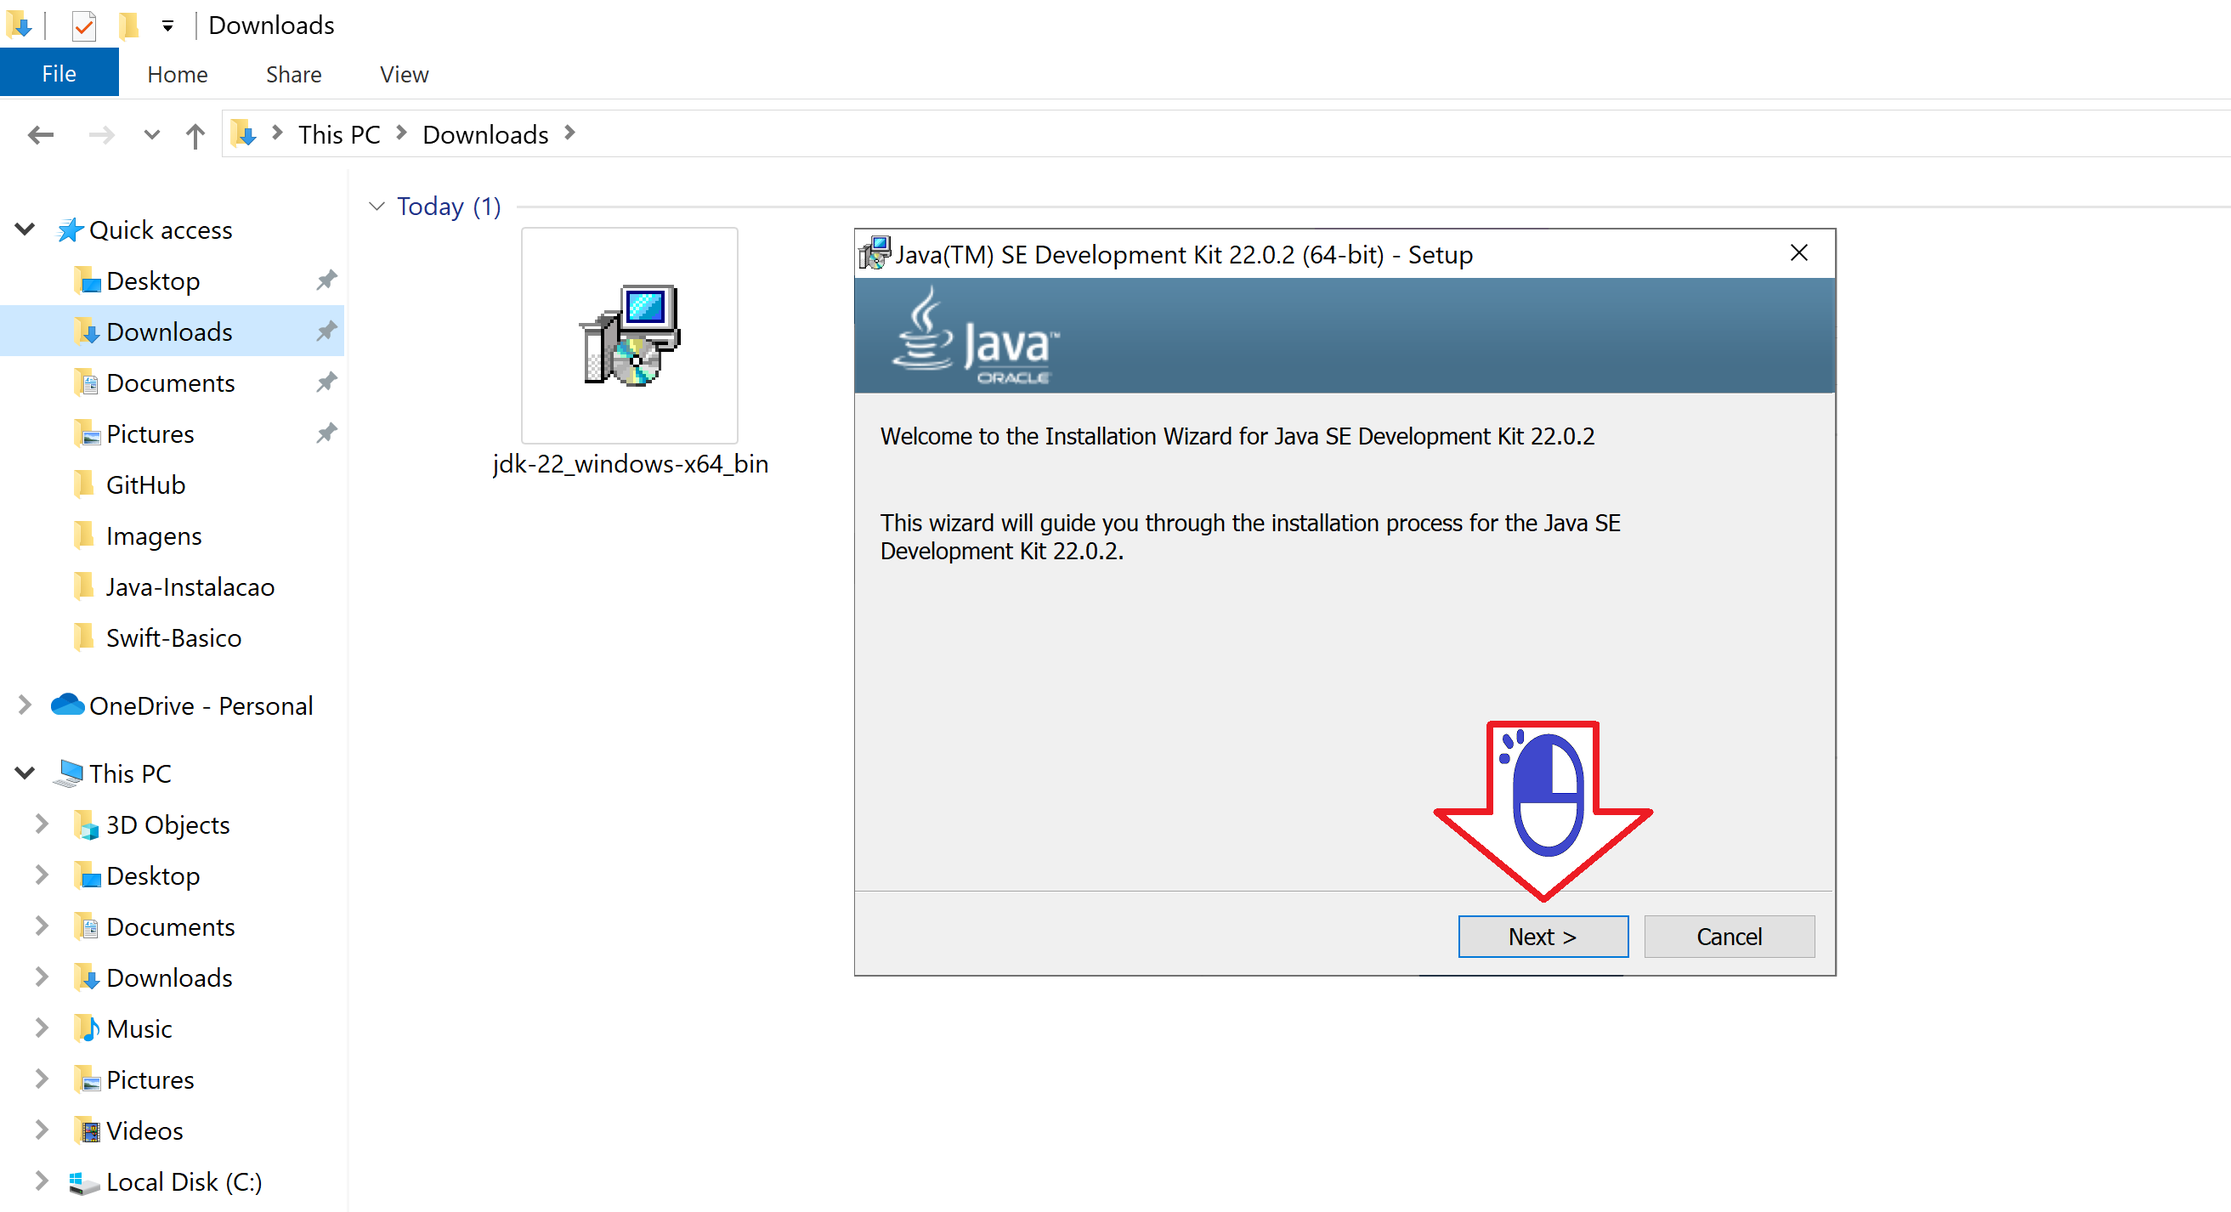
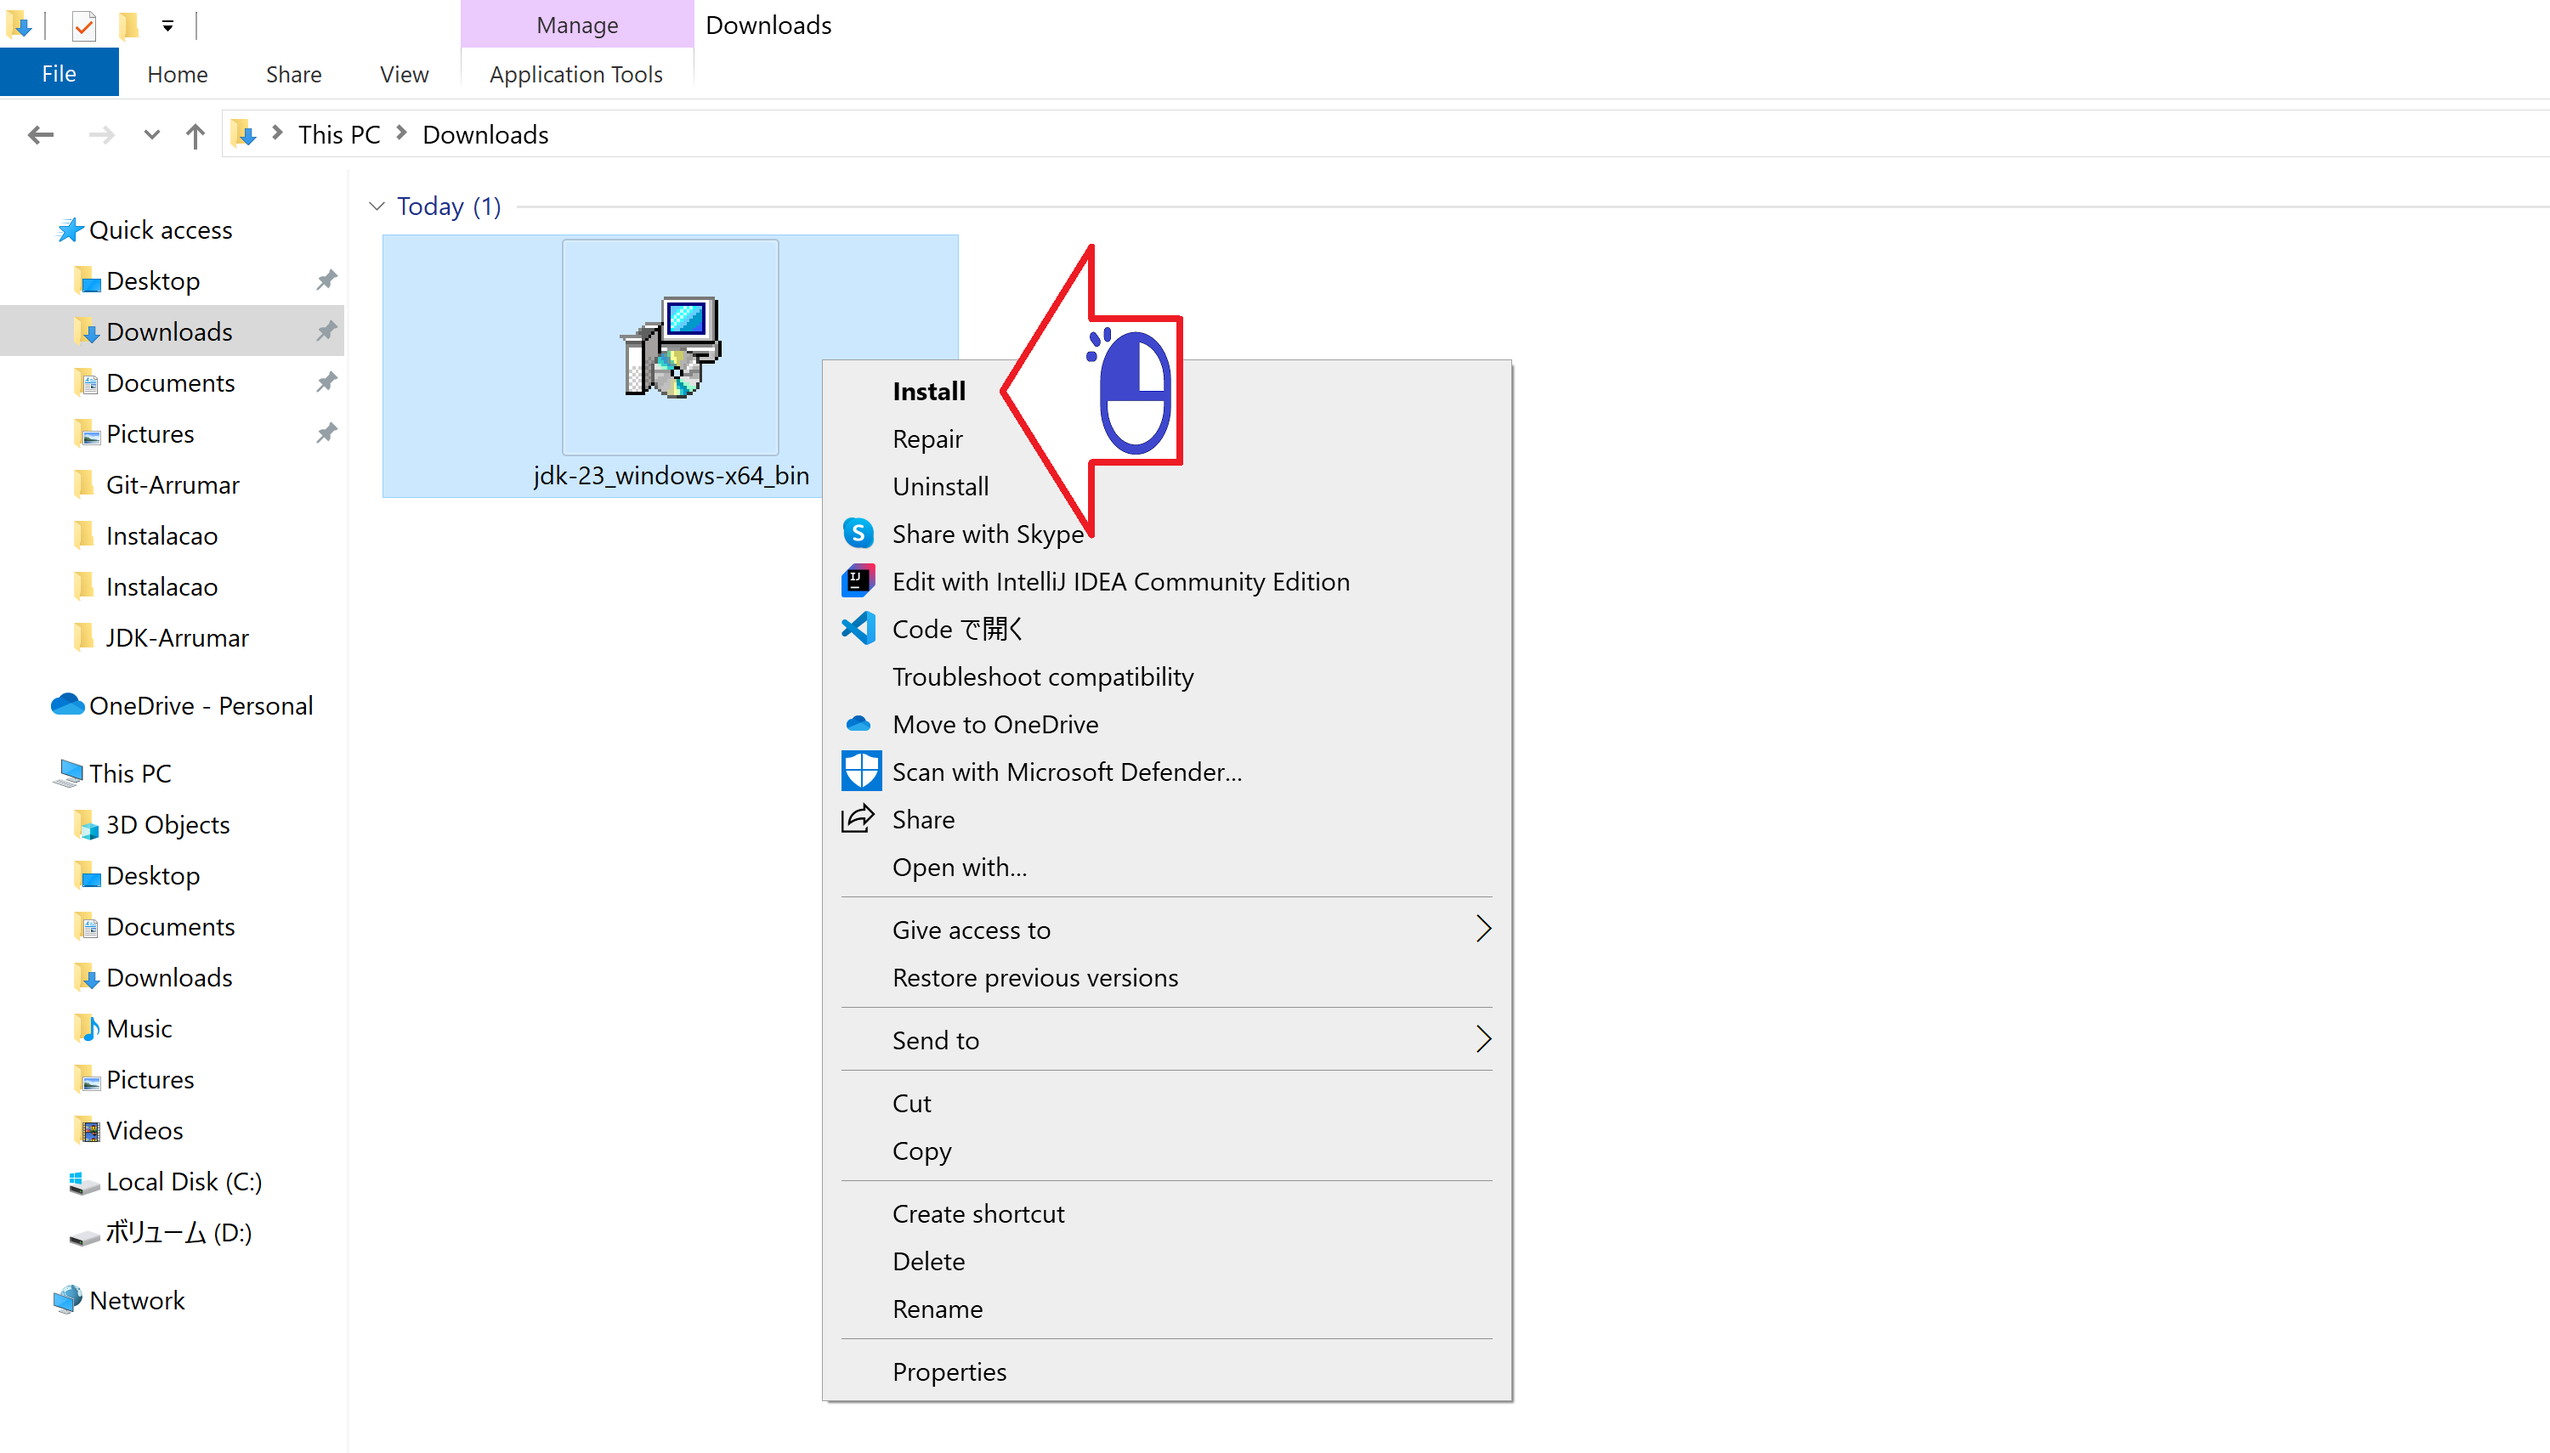
Java jdk botao de instalacao direito

diff --git a/README-Java-Instalacao-jp.md b/README-Java-Instalacao-jp.md
@@ -2,33 +2,38 @@
 
 JDKのインストールする
 
-
 <div align="center">
-絵 01 - ダウンロードフォルダーにダウンロードされたインストーラー
+絵 01 - 右クリックします
 </div>
 
 ![](Imagens/Java-Windows-Instalacao-Img01.png)
 
 <div align="center">
-絵 02 - 導入するシステムの情報
+絵 02 - 「Install」をクリックします
 </div>
 
 ![](Imagens/Java-Windows-Instalacao-Img02.png)
 
 <div align="center">
-絵 03 - 重要 - パッケージがインストールされる場所
+絵 03 - 導入するシステムの情報
 </div>
 
 ![](Imagens/Java-Windows-Instalacao-Img03.png)
 
 <div align="center">
-絵 04 - インストールの進行状況
+絵 04 - 重要 - パッケージがインストールされる場所
 </div>
 
 ![](Imagens/Java-Windows-Instalacao-Img04.png)
 
 <div align="center">
-Figura 05 - プロセスの完了
+絵 05 - インストールの進行状況
 </div>
 
 ![](Imagens/Java-Windows-Instalacao-Img05.png)
+
+<div align="center">
+Figura 06 - プロセスの完了
+</div>
+
+![](Imagens/Java-Windows-Instalacao-Img06.png)

diff --git a/README-Java-Instalacao-br-pt.md b/README-Java-Instalacao-br-pt.md
@@ -3,31 +3,37 @@
 Instalando o arquivo baixado no site da Oracle
 
 <div align="center">
-Figura 01 - Instalador baixado na pasta Downloads
+Figura 01 - Clique com o botão direito
 </div>
 
 ![](Imagens/Java-Windows-Instalacao-Img01.png)
 
 <div align="center">
-Figura 02 - Informação sobre o sistema que sera instalado
+Figura 02 - Clique Instalar
 </div>
 
 ![](Imagens/Java-Windows-Instalacao-Img02.png)
 
 <div align="center">
-Figura 03 - IMPORTANTE-Local onde o pacote sera instalado
+Figura 03 - Informação sobre o sistema que sera instalado
 </div>
 
 ![](Imagens/Java-Windows-Instalacao-Img03.png)
 
 <div align="center">
-Figura 04 - Progresso da instalação
+Figura 04 - IMPORTANTE-Local onde o pacote sera instalado
 </div>
 
 ![](Imagens/Java-Windows-Instalacao-Img04.png)
 
 <div align="center">
-Figura 05 - Conclusão do processo
+Figura 05 - Progresso da instalação
 </div>
 
 ![](Imagens/Java-Windows-Instalacao-Img05.png)
+
+<div align="center">
+Figura 06 - Conclusão do processo
+</div>
+
+![](Imagens/Java-Windows-Instalacao-Img06.png)
